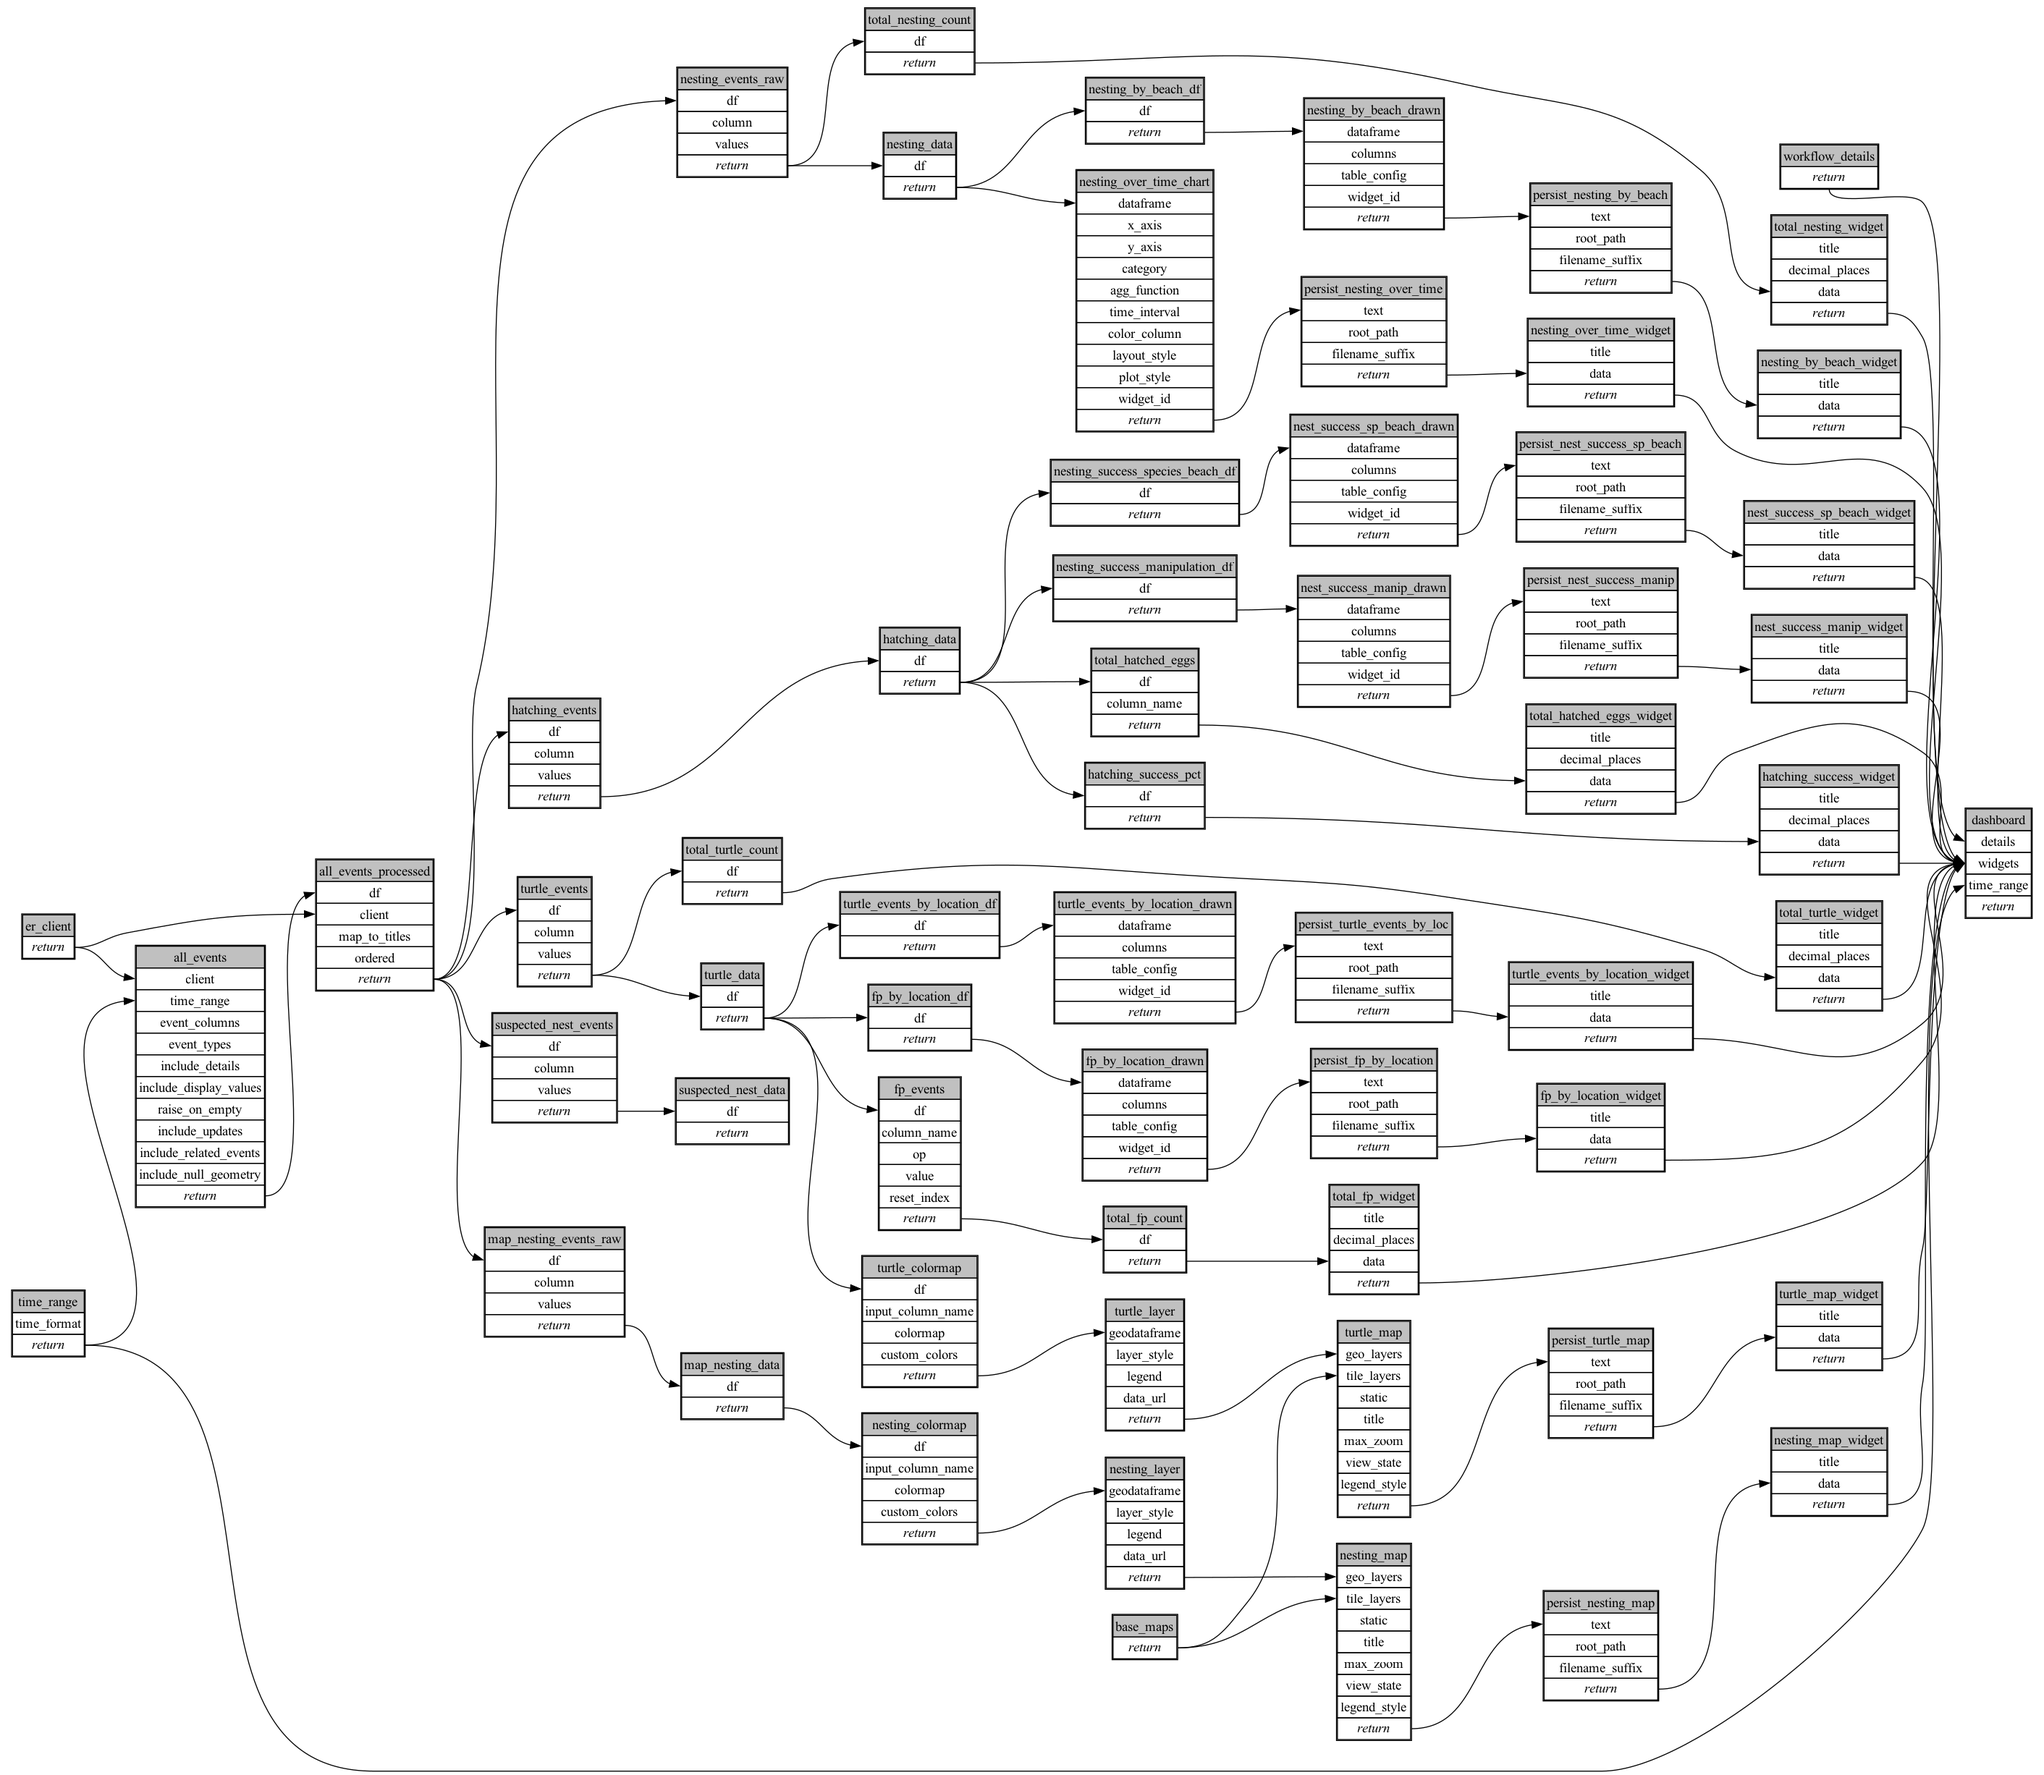
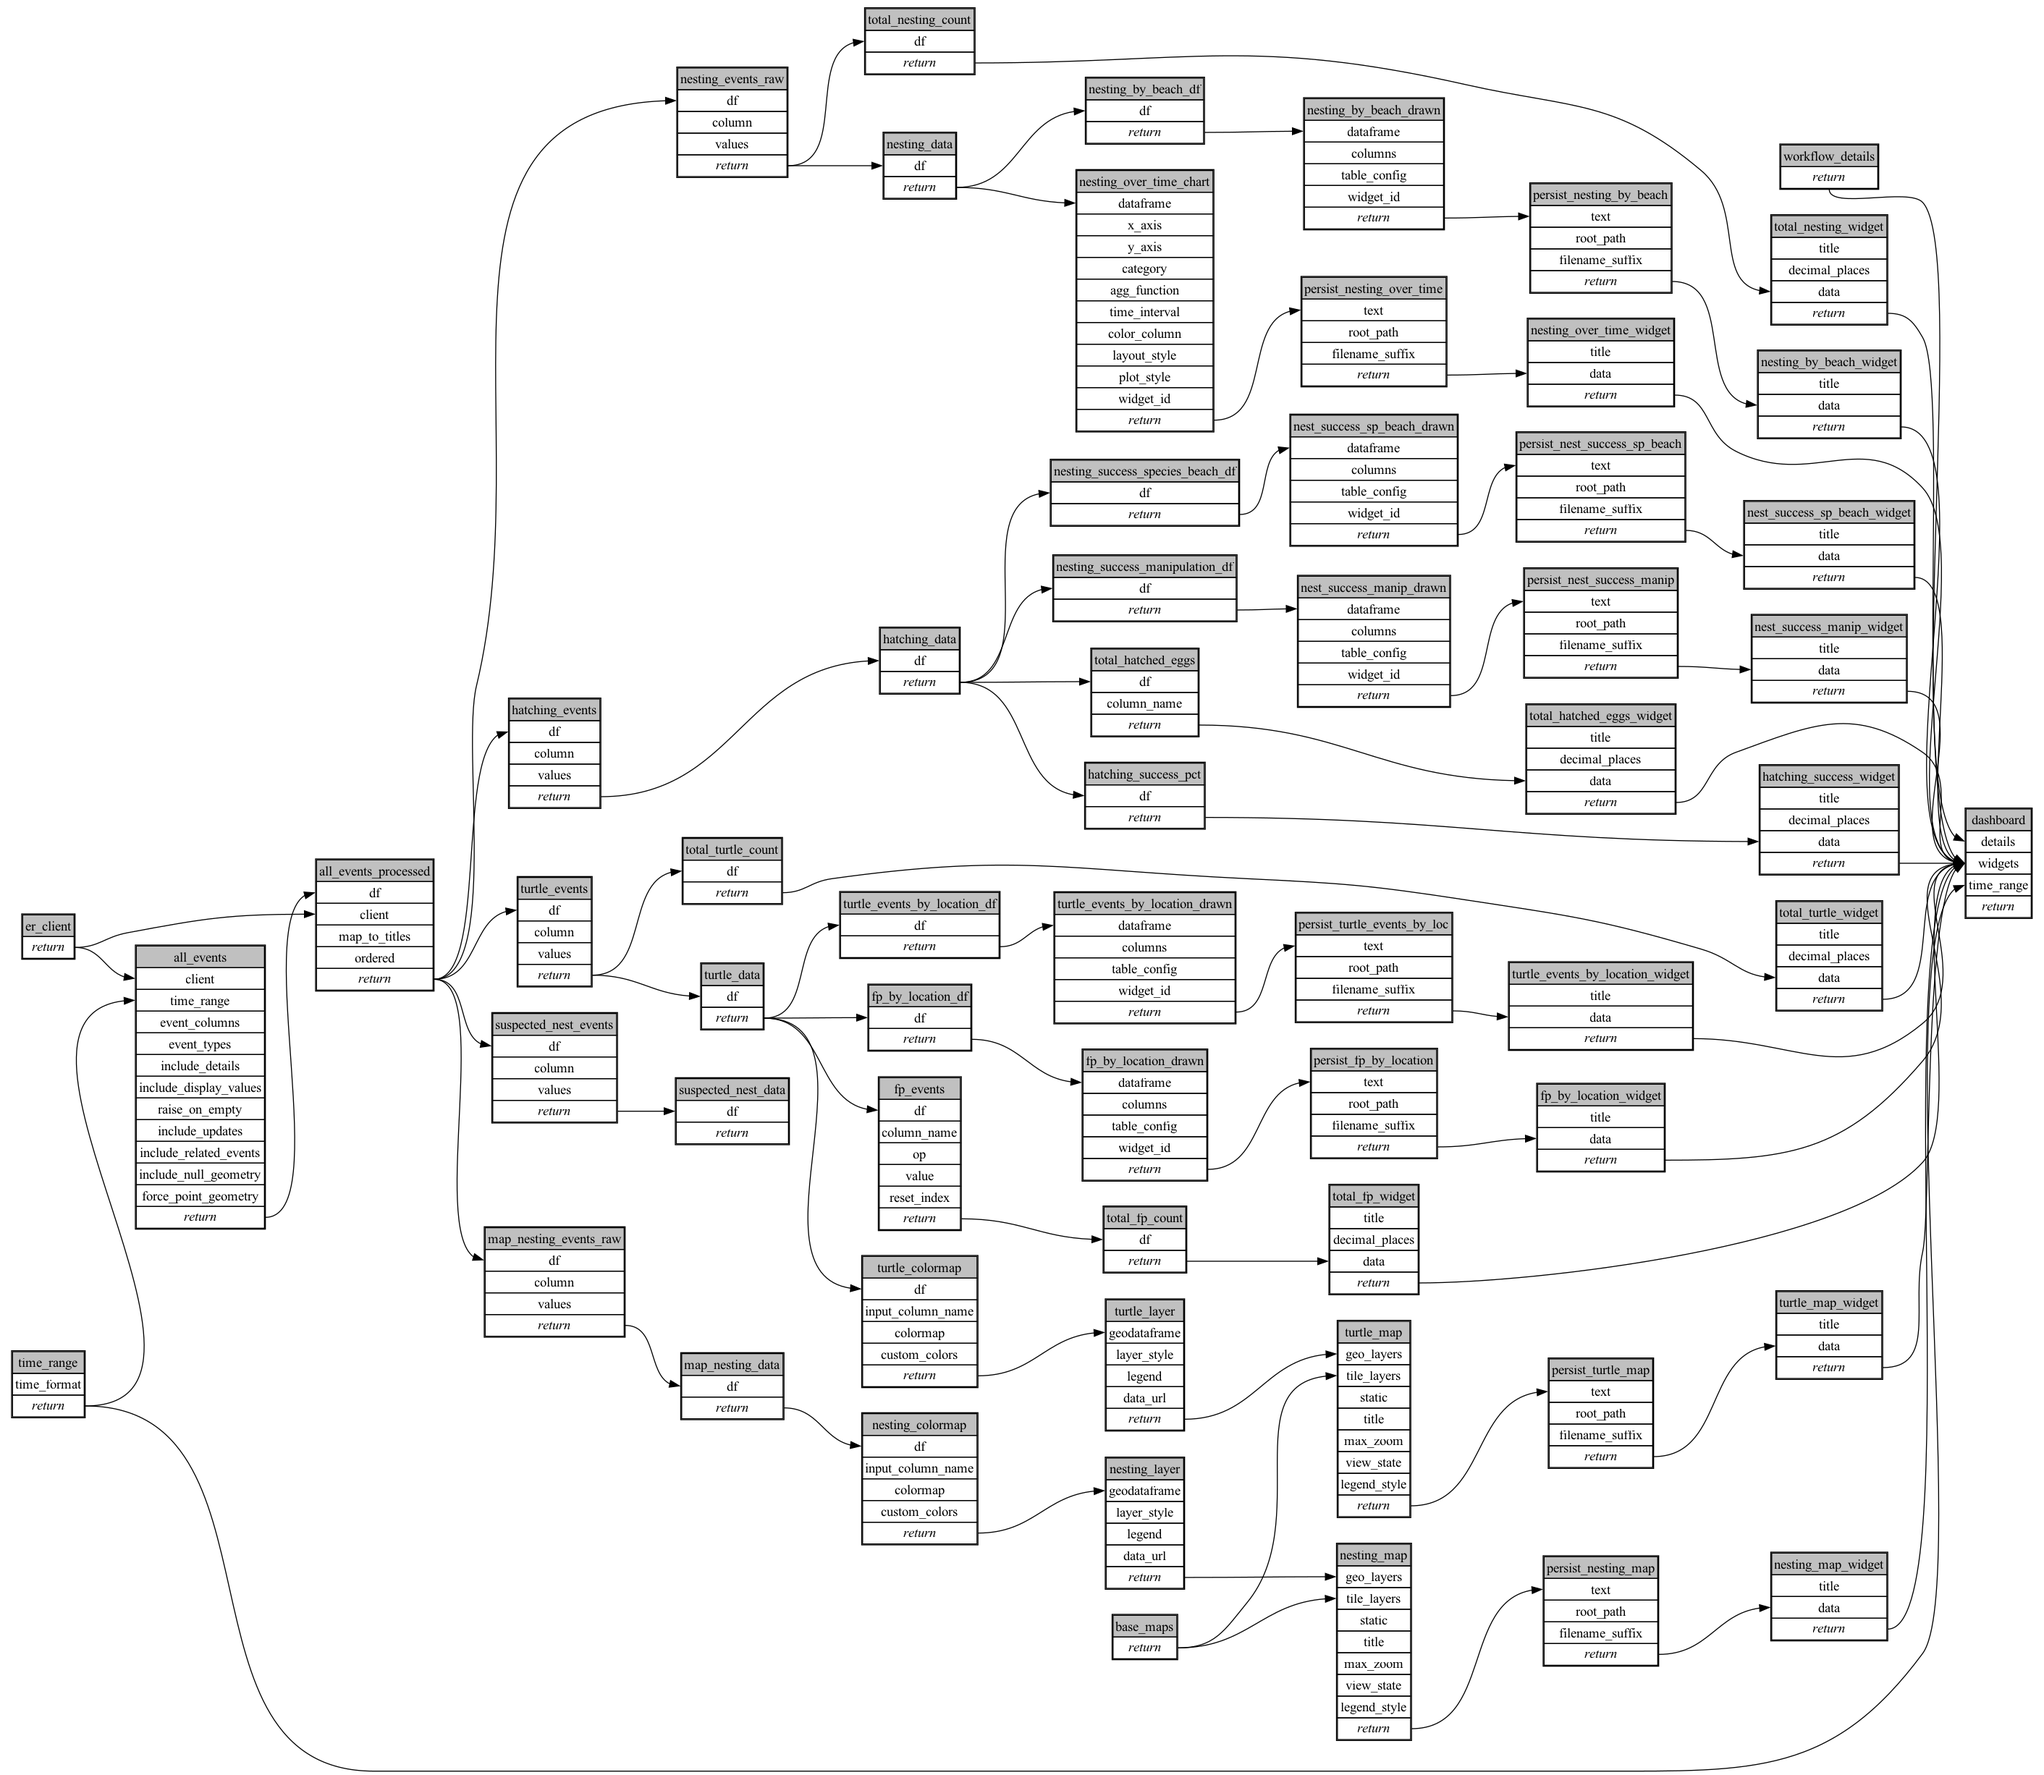
Recompile workflow with force_point_geometry, update layout

diff --git a/ecoscope-workflows-turtle-monitoring-workflow/ecoscope_workflows_turtle_monitoring_workflow/dags/run_sequential.py b/ecoscope-workflows-turtle-monitoring-workflow/ecoscope_workflows_turtle_monitoring_workflow/dags/run_sequential.py
@@ -185,6 +185,7 @@ def main(params: dict[str, Any], validate_params_schema: bool = True):
             include_updates=False,
             include_related_events=False,
             include_null_geometry=False,
+            force_point_geometry=True,
             **(params.get("all_events") or {}),
         )
         .call()

diff --git a/ecoscope-workflows-turtle-monitoring-workflow/ecoscope_workflows_turtle_monitoring_workflow/dags/run_sequential_mock_io.py b/ecoscope-workflows-turtle-monitoring-workflow/ecoscope_workflows_turtle_monitoring_workflow/dags/run_sequential_mock_io.py
@@ -203,6 +203,7 @@ def main(params: dict[str, Any], validate_params_schema: bool = True):
             include_updates=False,
             include_related_events=False,
             include_null_geometry=False,
+            force_point_geometry=True,
             **(params.get("all_events") or {}),
         )
         .call()

diff --git a/ecoscope-workflows-turtle-monitoring-workflow/README.md b/ecoscope-workflows-turtle-monitoring-workflow/README.md
@@ -5,8 +5,8 @@
 
 ```yaml
 # fingerprint:
-artifacts_sha256_basic: 118c851fdb8d53d8108e24bc4e69864a8b891a2558914fbe6c8815f1d3f6381a
-artifacts_sha256_strict: 29bb3f874ca610af33a99e045911842a79e67fd4a61ca7bd13ad49dbe7536486
+artifacts_sha256_basic: f38b9703fa784198590ef5979e923c80c9950bddfb81548ad25661a2055ed5bd
+artifacts_sha256_strict: 201923b7691ed9a64e2facaff93c963d332ad34d3084363ebc4e0f97e6846e47
 installed_requirements:
 - channel: https://repo.prefix.dev/ecoscope-workflows/
   name: ecoscope-platform
@@ -20,8 +20,8 @@ installed_requirements:
 - channel: file:///tmp/ecoscope-workflows-custom/release/artifacts/
   name: ecoscope-workflows-ext-curacao
   version: {version: ==0.0.0}
-params_sha256: c02dd59dab48ac6f95de2521d57c35fae165883c11ca5a57f1cab8ecfd45a499
-spec_sha256: 83a3e83860cbd2bfa8cd5c9f34568f228f6e811889c4d863c6803bd9643b5fae
+params_sha256: b7d7fbbcf92682196fc6fd61b5b05984a0830c45b4050b4e84787d578504f465
+spec_sha256: e5add6cfd7416ac01d29b489dd8935c2fbae353834d82da0fa4560fb0ef5560d
 
 ```
 
